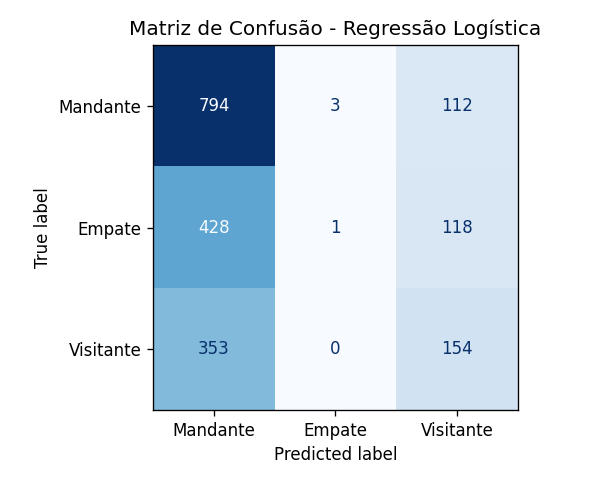
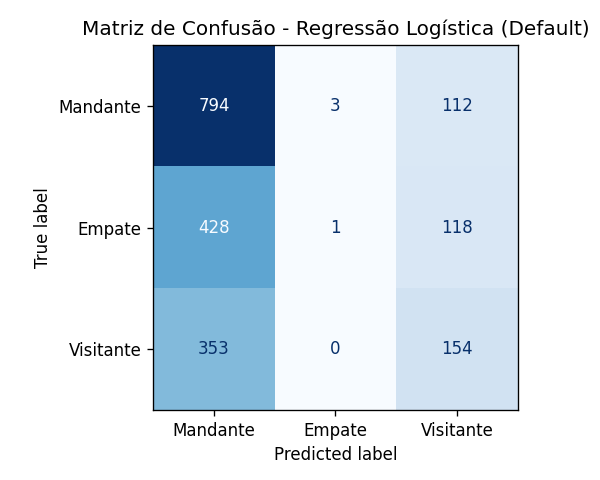
feat: implementação do gridsearch

Changed region(s): [[0.12, 0.0312, 0.99, 0.0938]]

diff --git a/ml/src/models/tuning.py b/ml/src/models/tuning.py
@@ -1,0 +1,164 @@
+"""Ajuste de hiperparâmetros via GridSearchCV com validação cruzada temporal.
+
+Este módulo centraliza a busca dos melhores hiperparâmetros para cada modelo.
+Usa GridSearchCV (busca exaustiva) porque o espaço de busca é pequeno e
+viável computacionalmente com ~4 k amostras de treino.
+
+A validação cruzada interna é feita com TimeSeriesSplit para respeitar a
+ordem temporal dos dados — o mesmo princípio da divisão treino/teste por
+temporada usada no restante do projeto.
+"""
+
+from sklearn.model_selection import GridSearchCV, TimeSeriesSplit
+from sklearn.linear_model import LogisticRegression
+from sklearn.ensemble import RandomForestClassifier
+from sklearn.naive_bayes import GaussianNB
+from sklearn.neighbors import KNeighborsClassifier
+from sklearn.pipeline import make_pipeline
+from sklearn.preprocessing import StandardScaler
+from sklearn.metrics import accuracy_score
+
+
+# ---------------------------------------------------------------------------
+# Grids de hiperparâmetros por modelo
+# ---------------------------------------------------------------------------
+# Cada entrada mapeia o nome do modelo para:
+#   - "pipeline": o estimador (com scaler se necessário)
+#   - "param_grid": o dicionário de hiperparâmetros a testar
+#
+# Para modelos dentro de um Pipeline, os nomes dos parâmetros seguem o formato
+# "<nome_do_step>__<parâmetro>" (ex.: "logisticregression__C").
+
+MODEL_CONFIGS = {
+    "Logistic Regression": {
+        "pipeline": make_pipeline(
+            StandardScaler(),
+            LogisticRegression(max_iter=1000),
+        ),
+        "param_grid": {
+            "logisticregression__C": [0.01, 0.1, 1, 10, 100],
+            "logisticregression__solver": ["lbfgs", "liblinear"],
+        },
+    },
+    "Random Forest": {
+        # Árvores não precisam de padronização.
+        "pipeline": RandomForestClassifier(random_state=42, n_jobs=-1),
+        "param_grid": {
+            "n_estimators": [100, 300, 500],
+            "max_depth": [5, 8, 12, None],
+            "min_samples_split": [2, 5, 10],
+        },
+    },
+    "Naïve Bayes": {
+        "pipeline": make_pipeline(StandardScaler(), GaussianNB()),
+        "param_grid": {
+            "gaussiannb__var_smoothing": [1e-11, 1e-9, 1e-7, 1e-5],
+        },
+    },
+    "KNN": {
+        "pipeline": make_pipeline(
+            StandardScaler(),
+            KNeighborsClassifier(),
+        ),
+        "param_grid": {
+            "kneighborsclassifier__n_neighbors": [5, 9, 15, 21, 31],
+            "kneighborsclassifier__weights": ["uniform", "distance"],
+            "kneighborsclassifier__metric": ["euclidean", "manhattan"],
+        },
+    },
+}
+
+
+def _numeric_features(X):
+    """Mantém apenas colunas numéricas (remove 'match_date', que é datetime)."""
+    return X.select_dtypes(include="number")
+
+
+def tune_model(name, X_train, y_train, n_splits=5, scoring="accuracy"):
+    """Roda GridSearchCV para um modelo e retorna o melhor estimador.
+
+    Args:
+        name: nome do modelo (chave em MODEL_CONFIGS).
+        X_train: features de treino.
+        y_train: alvo de treino.
+        n_splits: quantidade de folds no TimeSeriesSplit.
+        scoring: métrica usada para escolher o melhor conjunto de parâmetros.
+
+    Returns:
+        Tupla (best_estimator, best_params, best_cv_score).
+    """
+    config = MODEL_CONFIGS[name]
+    cv = TimeSeriesSplit(n_splits=n_splits)
+
+    grid = GridSearchCV(
+        estimator=config["pipeline"],
+        param_grid=config["param_grid"],
+        cv=cv,
+        scoring=scoring,
+        n_jobs=-1,
+        refit=True,          # re-treina com os melhores params em todo o treino
+    )
+    grid.fit(_numeric_features(X_train), y_train)
+
+    return grid.best_estimator_, grid.best_params_, grid.best_score_
+
+
+def tune_all_models(X_train, y_train):
+    """Aplica tune_model para cada modelo registrado.
+
+    Returns:
+        Dicionário {nome: (best_estimator, best_params, best_cv_score)}.
+    """
+    results = {}
+    for name in MODEL_CONFIGS:
+        print(f"  Tuning {name}...")
+        best_est, best_params, best_cv = tune_model(name, X_train, y_train)
+        results[name] = (best_est, best_params, best_cv)
+        print(f"    Melhor CV score: {best_cv:.4f}")
+        print(f"    Params: {best_params}")
+    return results
+
+
+def evaluate_tuned(results, X_test, y_test):
+    """Avalia todos os modelos tuned no conjunto de teste.
+
+    Args:
+        results: dicionário retornado por tune_all_models.
+        X_test: features de teste.
+        y_test: alvo de teste.
+
+    Returns:
+        Dicionário {nome: accuracy_no_teste}.
+    """
+    X_num = _numeric_features(X_test)
+    accuracies = {}
+    for name, (model, _, _) in results.items():
+        y_pred = model.predict(X_num)
+        accuracies[name] = accuracy_score(y_test, y_pred)
+    return accuracies
+
+
+def print_comparison(default_accs, tuned_accs, tuned_results):
+    """Imprime tabela comparativa: acurácia default vs tuned + melhores params.
+
+    Args:
+        default_accs: dict {nome: acurácia_default}.
+        tuned_accs: dict {nome: acurácia_tuned}.
+        tuned_results: dict retornado por tune_all_models (para pegar params).
+    """
+    print("\n" + "=" * 78)
+    print("COMPARAÇÃO: DEFAULT vs. TUNED (acurácia no teste)")
+    print("=" * 78)
+    print(f"{'Modelo':<25} {'Default':>8} {'Tuned':>8} {'Δ':>8}  Melhores parâmetros")
+    print("-" * 78)
+
+    for name in tuned_accs:
+        default = default_accs.get(name, float("nan"))
+        tuned = tuned_accs[name]
+        delta = tuned - default
+        _, best_params, _ = tuned_results[name]
+        # Formata params de forma legível (remove prefixo do pipeline)
+        short_params = {k.split("__")[-1]: v for k, v in best_params.items()}
+        print(f"{name:<25} {default:>8.3f} {tuned:>8.3f} {delta:>+8.3f}  {short_params}")
+
+    print("=" * 78)

diff --git a/ml/src/main.py b/ml/src/main.py
@@ -7,6 +7,7 @@ from .models.logistic import train_logistic, evaluate_logistic
 from .models.forest import train_forest, evaluate_forest
 from .models.naive_bayes import train_naive_bayes, evaluate_naive_bayes
 from .models.knn import train_knn, evaluate_knn
+from .models.tuning import tune_all_models, evaluate_tuned, print_comparison
 from .evaluation import report_and_plot
 
 # Caminhos ancorados no próprio arquivo, não no diretório de execução,
@@ -58,10 +59,43 @@ if __name__ == "__main__":
     acc_knn = evaluate_knn(knn, X_test, y_test)
     print(f"[KNN]                            acurácia: {acc_knn:.3f}")
 
-    # Passo 6: avaliação detalhada do modelo campeão (Logística): relatório por
-    # classe e matriz de confusão salva como imagem para o artigo.
+    # Passo 6: avaliação detalhada do modelo campeão default (Logística):
+    # relatório por classe e matriz de confusão salva como imagem para o artigo.
     report_and_plot(
         logistic, X_test, y_test,
-        title="Matriz de Confusão - Regressão Logística",
+        title="Matriz de Confusão - Regressão Logística (Default)",
         save_path=REPORTS_DIR / "confusion_logistic.png",
+    )
+
+    # ------------------------------------------------------------------
+    # Passo 7: AJUSTE DE HIPERPARÂMETROS (GridSearchCV + TimeSeriesSplit)
+    # ------------------------------------------------------------------
+    print("\n" + "=" * 60)
+    print("AJUSTE DE HIPERPARÂMETROS (GridSearchCV + TimeSeriesSplit)")
+    print("=" * 60)
+
+    tuned_results = tune_all_models(X_train, y_train)
+
+    # Passo 8: avaliar modelos tuned no conjunto de teste.
+    tuned_accs = evaluate_tuned(tuned_results, X_test, y_test)
+
+    # Acurácias default para comparação (mesma ordem dos nomes em tuning.py).
+    default_accs = {
+        "Logistic Regression": acc_log,
+        "Random Forest": acc_rf,
+        "Naïve Bayes": acc_nb,
+        "KNN": acc_knn,
+    }
+
+    print_comparison(default_accs, tuned_accs, tuned_results)
+
+    # Passo 9: matriz de confusão do melhor modelo tuned.
+    best_name = max(tuned_accs, key=tuned_accs.get)
+    best_model = tuned_results[best_name][0]
+    print(f"\nMelhor modelo tuned: {best_name} (acurácia: {tuned_accs[best_name]:.3f})")
+
+    report_and_plot(
+        best_model, X_test, y_test,
+        title=f"Matriz de Confusão - {best_name} (Tuned)",
+        save_path=REPORTS_DIR / "confusion_best_tuned.png",
     )
